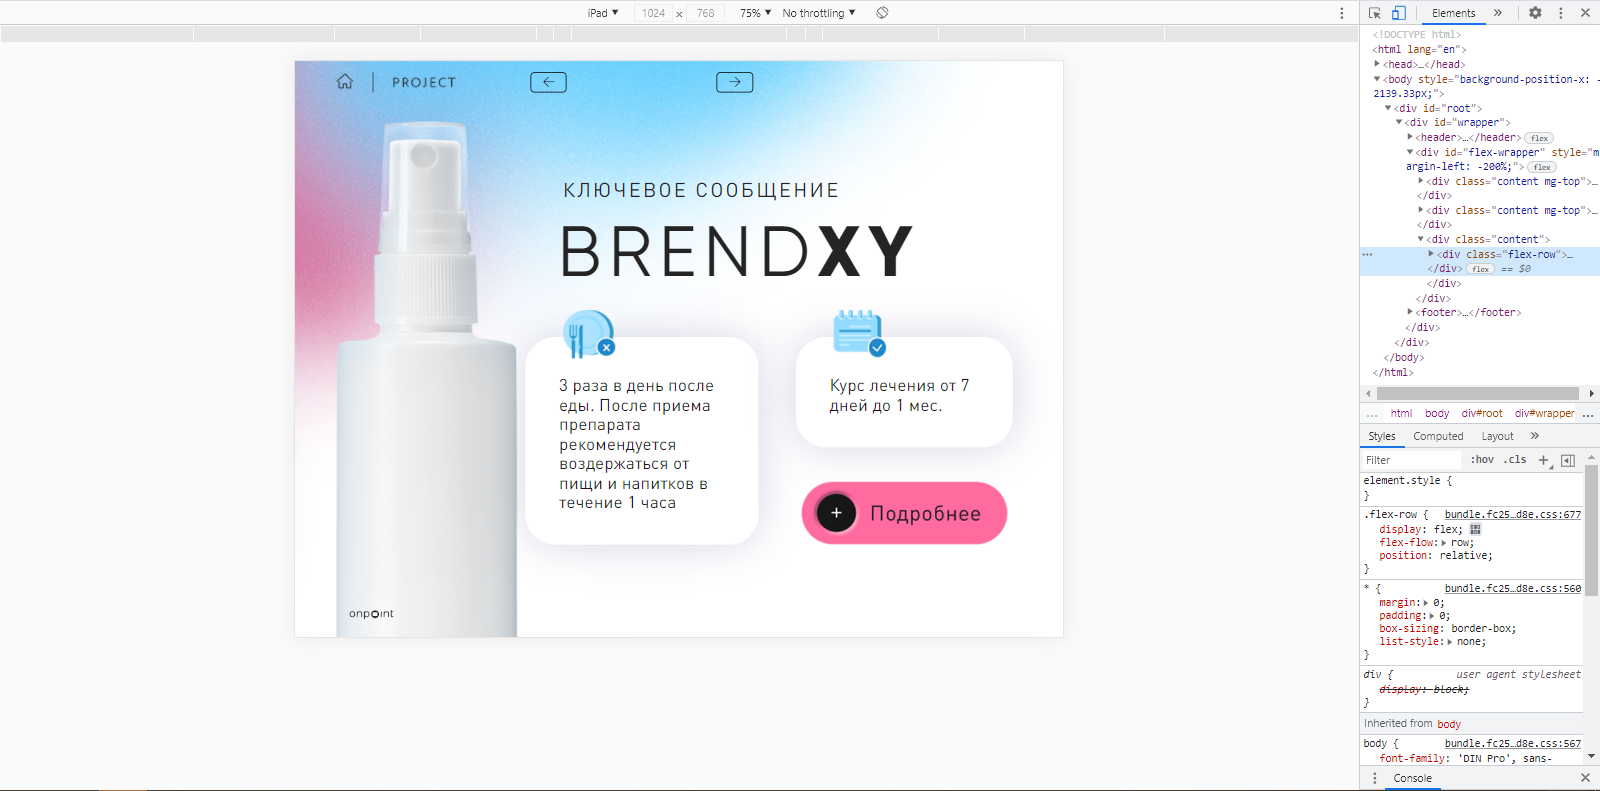
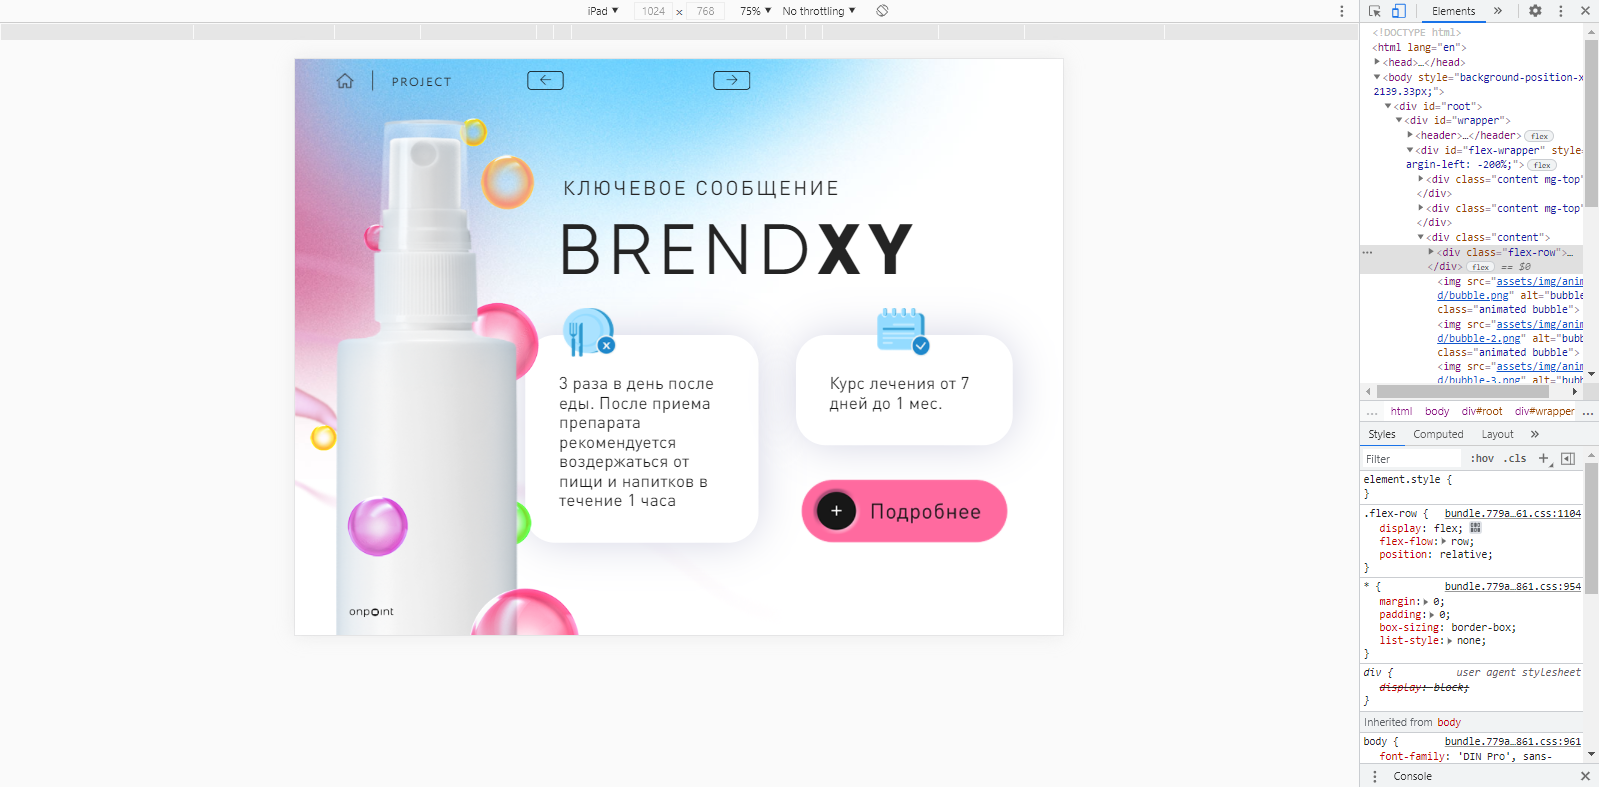
docs: Обновить Readme и скриншоты

diff --git a/src/animation.css b/src/animation.css
@@ -149,6 +149,7 @@
 	top: 12%;
 	left: 61%;
 	opacity: 0;
+	filter: blur(1px);
 	animation-delay: .2s;
 }
 
@@ -156,6 +157,7 @@
 	top: 10%;
 	left: 74%;
 	opacity: 0;
+	filter: blur(2px);
 	animation-delay: .6s;
 }
 
@@ -163,6 +165,7 @@
 	top: 52%;
 	left: 90%;
 	opacity: 0;
+	filter: blur(1px);
 	animation-delay: .8s;
 }
 

diff --git a/src/bottle-page.css b/src/bottle-page.css
@@ -109,6 +109,7 @@
 	border-radius: 40px;
 	height: auto;
 	min-width: 600px;
+	max-width: 1000px;
 	margin-top: 110px;
 	margin-left: 155px;
 	margin-right: 5%;

diff --git a/README.md b/README.md
@@ -1,5 +1,11 @@
 # onpoint тестовое задание Frontend  
-Приложение реализовано в виде страницы с горизонтальной ориентацией. По слайдам перемещение осуществляется с помощью горизонтального свайпа и ссылок. На втором слайде текст прокручивается ползунком.
+Приложение реализовано в виде страницы с горизонтальной ориентацией. 
+
+* Перемещение по слайдам осуществляется горизонтальным свайпом для устройств с мышкой и тач-падом
+* Нажатие на иконку дома ведет на первый слайд. Присутствуют дополнительные кнопки навигации (добавлены мною просто для удобства)
+* Текст на втором слайде прокручивается ползунком
+* Много анимированных изображений
+* Частично реализована адаптивная верстка(по заданию нужно было только для iPad)
 
 Использован React  
 Сборка webpack. В директории для запуска консольные команды  
